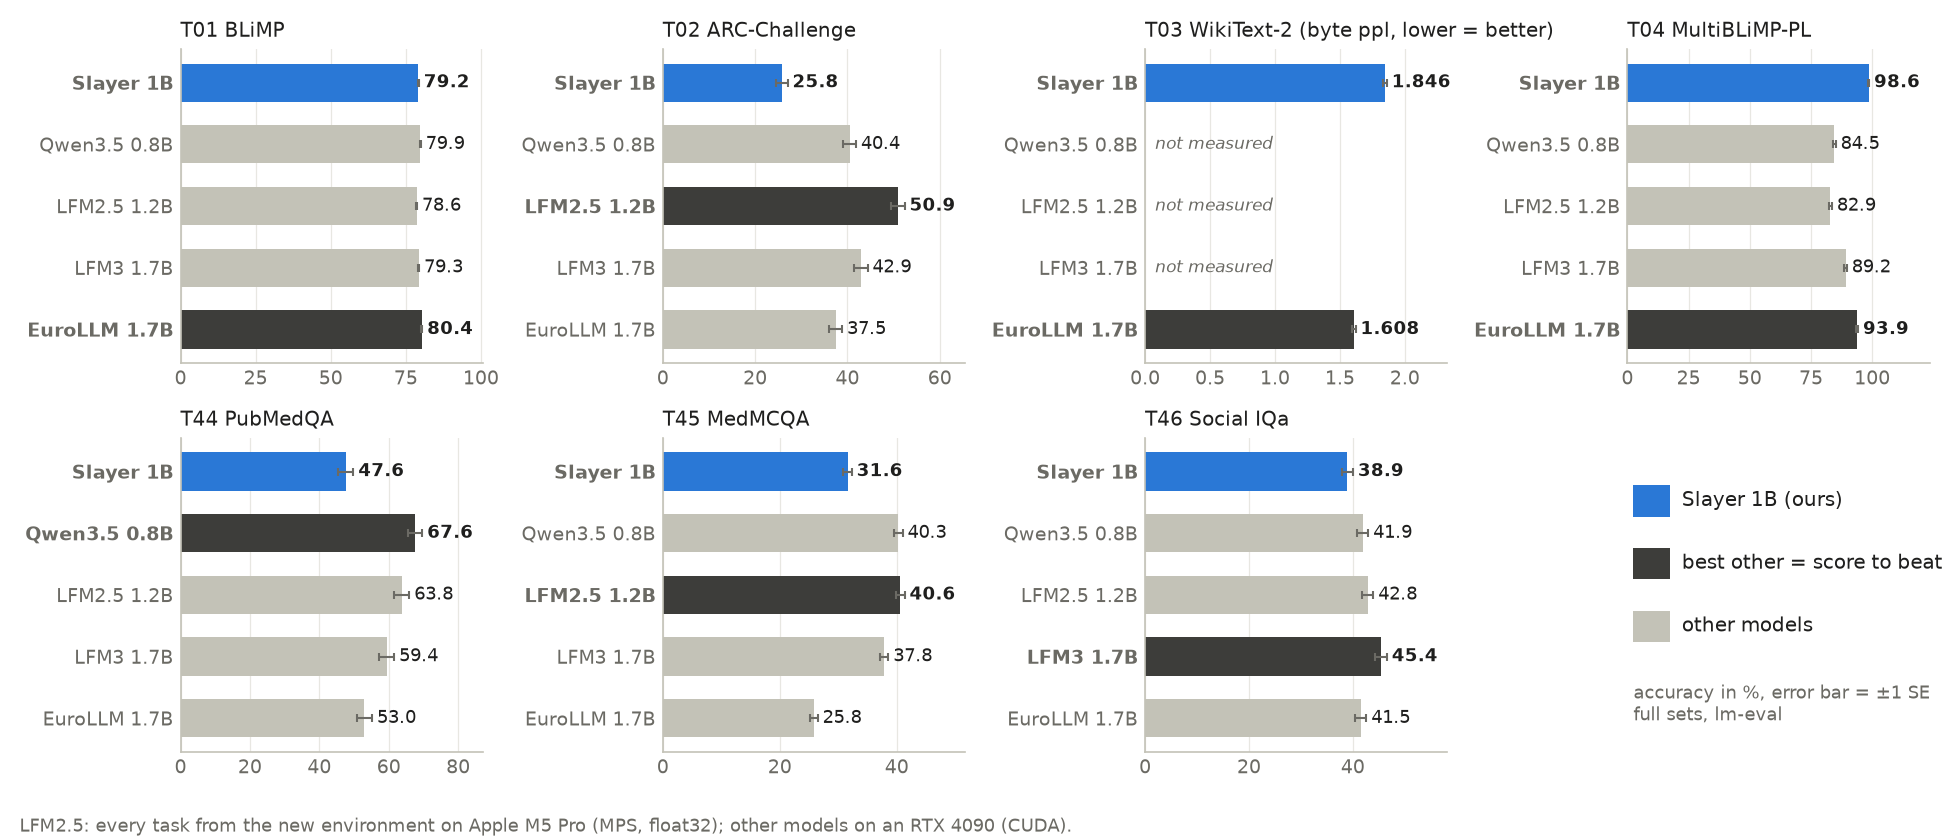
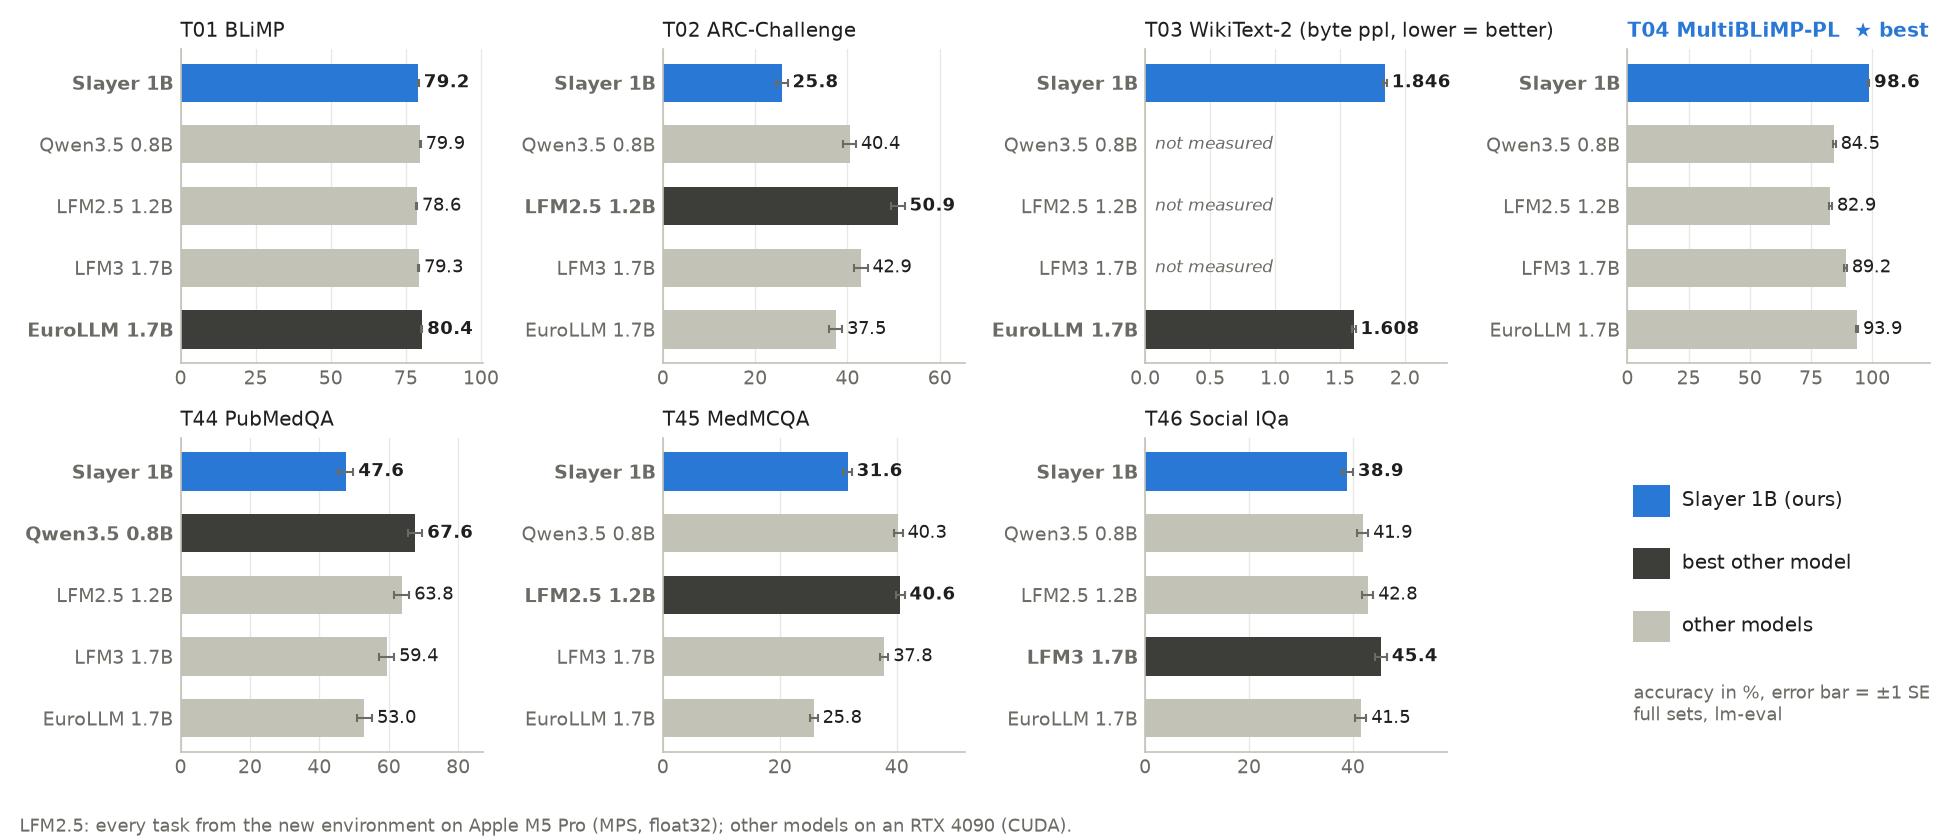
Chart: when Slayer has the best score, it is marked as the winner

Changed region(s): [[0.7385, 0.3714, 0.9846, 0.4333], [0.8308, 0.0, 0.9846, 0.0619], [0.9231, 0.65, 1.0, 0.681]]

diff --git a/research/tools/wykres_przebiegu.py b/research/tools/wykres_przebiegu.py
@@ -35,7 +35,8 @@ for ax, (tid, d, name, k) in zip(axes.flat, T):
     vals = [wynik(d, m, k) for m, _ in M]
     ok = [(i, v) for i, v in enumerate(vals) if v]
     low = k == "byte_perplexity"
-    best = (min if low else max)([x for x in ok if x[0]], key=lambda x: x[1][0])[0]
+    best = (min if low else max)(ok, key=lambda x: x[1][0])[0]  # Slayer included: when it wins, it is the one marked
+    slayer_leads = best == 0
     top = max(v[0] + v[1] for _, v in ok)
     for i, (m, label) in enumerate(M):
         y = len(M) - 1 - i
@@ -53,13 +54,14 @@ for ax, (tid, d, name, k) in zip(axes.flat, T):
     for i, t in enumerate(ax.get_yticklabels()[::-1]):
         t.set_fontweight("bold" if i in (0, best) else "normal")
     ax.set_xlim(0, top * 1.25)
-    ax.set_title(f"{tid} {name}", fontsize=9.5, color=INK, loc="left")
+    ax.set_title(f"{tid} {name}" + ("  ★ best" if slayer_leads else ""), fontsize=9.5,
+                 color=SLAYER if slayer_leads else INK, loc="left", fontweight="bold" if slayer_leads else "normal")
     ax.grid(axis="x", color="#e8e7e2", lw=0.6); ax.set_axisbelow(True)
     for s in ("top", "right"):
         ax.spines[s].set_visible(False)
     ax.tick_params(colors=MUTED, length=0)
 ax = axes.flat[-1]; ax.axis("off")
-for y, (c, t) in enumerate([(SLAYER, "Slayer 1B (ours)"), (BEST, "best other = score to beat"), (REST, "other models")]):
+for y, (c, t) in enumerate([(SLAYER, "Slayer 1B (ours)"), (BEST, "best other model"), (REST, "other models")]):
     ax.barh(2 - y, 0.12, left=0.02, height=0.5, color=c)
     ax.text(0.18, 2 - y, t, va="center", fontsize=9.5, color=INK)
 ax.text(0.02, -0.9, "accuracy in %, error bar = ±1 SE\nfull sets, lm-eval", fontsize=8.5, color=MUTED, va="top")
